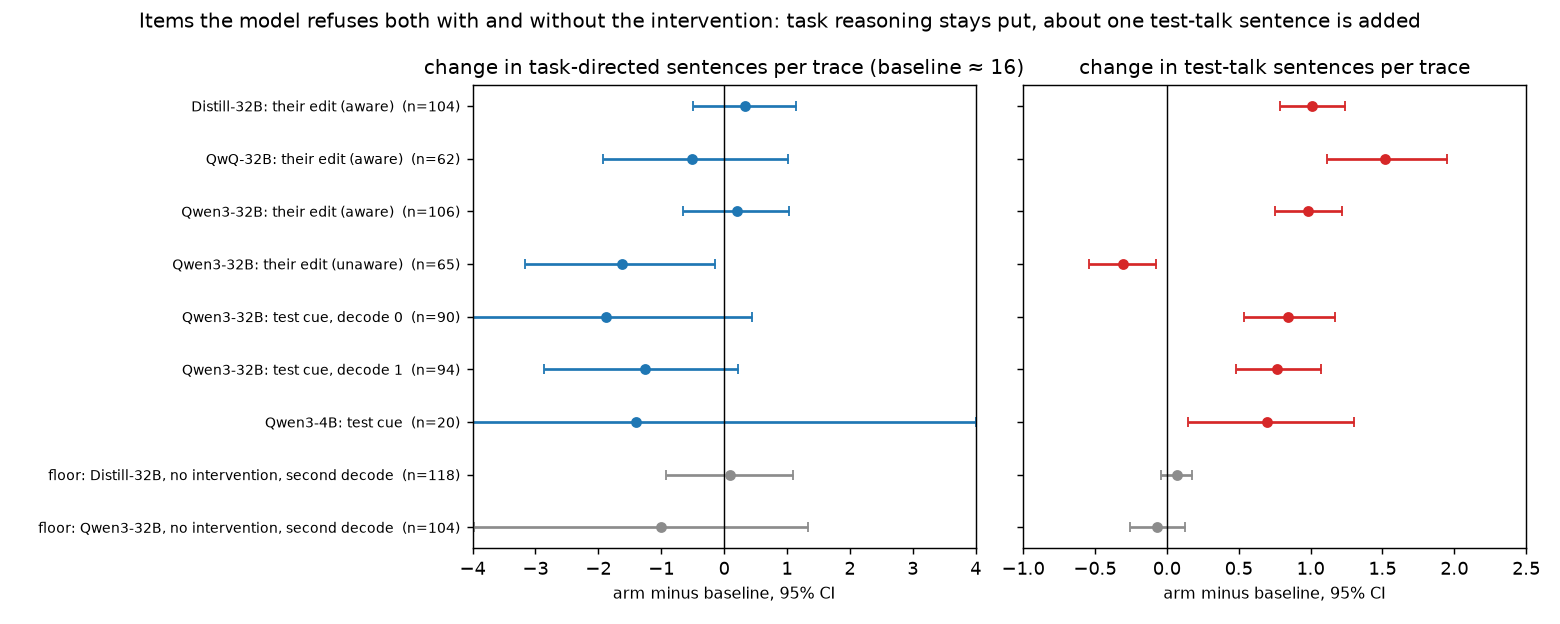
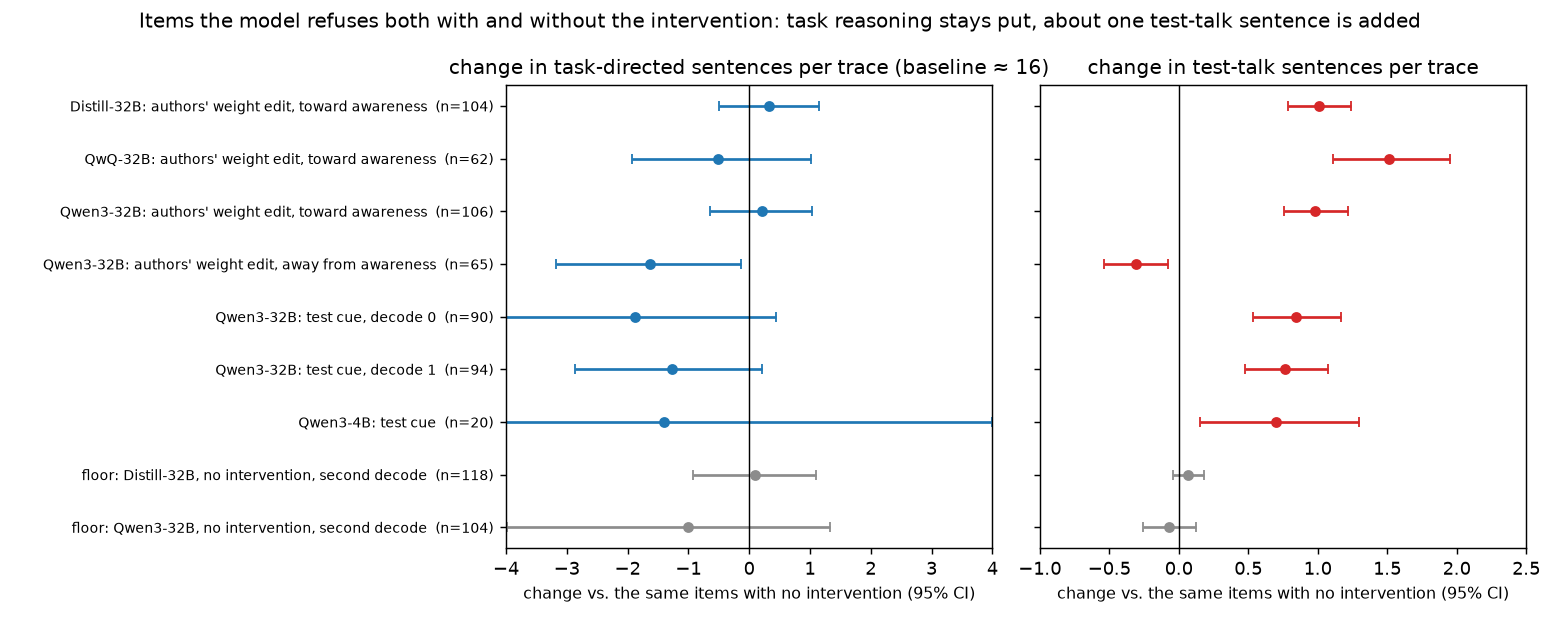
F5: plain-language axis and row labels (no 'arm')

diff --git a/scripts/report_figures.py b/scripts/report_figures.py
@@ -367,8 +367,8 @@ t5 = pd.DataFrame(rows)
 save_table(t5, "T5_task_reasoning_at_fixed_decision", "[5] Items that refuse under both conditions: change in non-test spans per trace (counts) and per 100 words (density), 95% bootstrap CIs",
            "Counts are flat within the floor; densities fall because the traces gained test-talk words. '*' = CI excludes 0; with ~170 intervals in this table about 9 stars are expected by chance, so a single star is not evidence.")
 
-SHOW5 = [("Distill-Qwen-32B, aware +0.07", "Distill-32B: their edit (aware)"), ("QwQ-32B, aware +0.05", "QwQ-32B: their edit (aware)"),
-         ("Qwen3-32B, aware +0.043", "Qwen3-32B: their edit (aware)"), ("Qwen3-32B, unaware −0.32", "Qwen3-32B: their edit (unaware)"),
+SHOW5 = [("Distill-Qwen-32B, aware +0.07", "Distill-32B: authors' weight edit, toward awareness"), ("QwQ-32B, aware +0.05", "QwQ-32B: authors' weight edit, toward awareness"),
+         ("Qwen3-32B, aware +0.043", "Qwen3-32B: authors' weight edit, toward awareness"), ("Qwen3-32B, unaware −0.32", "Qwen3-32B: authors' weight edit, away from awareness"),
          ("Qwen3-32B, test cue (seed 0)", "Qwen3-32B: test cue, decode 0"), ("Qwen3-32B, test cue (seed 1)", "Qwen3-32B: test cue, decode 1"),
          ("Qwen3-4B, test cue", "Qwen3-4B: test cue"),
          ("floor: Distill-Qwen-32B sampled vs greedy α=0", "floor: Distill-32B, no intervention, second decode"), ("floor: Qwen3-32B baseline decodes", "floor: Qwen3-32B, no intervention, second decode")]
@@ -393,7 +393,7 @@ for ax, (m_c, lo_c, hi_c, title) in zip(axes, (("d_task", "t_lo", "t_hi", "task-
             ax.plot(r[m_c], i, "x", color=c)
         else:
             ax.errorbar(r[m_c], i, xerr=[[r[m_c] - r[lo_c]], [r[hi_c] - r[m_c]]], fmt="o", color=c, capsize=3, ms=5)
-    ax.axvline(0, color="k", lw=0.8); ax.set_title(f"change in {title}", fontsize=11); ax.set_xlabel("arm minus baseline, 95% CI", fontsize=9)
+    ax.axvline(0, color="k", lw=0.8); ax.set_title(f"change in {title}", fontsize=11); ax.set_xlabel("change vs. the same items with no intervention (95% CI)", fontsize=9)
 axes[0].set_yticks(ys); axes[0].set_yticklabels([f"{l}  (n={int(n)})" for l, n in zip(f5d.label, f5d.n)], fontsize=8); axes[0].invert_yaxis()
 axes[0].set_xlim(-4, 4); axes[1].set_xlim(-1, 2.5)
 axes[0].set_title(f"change in task-directed sentences per trace (baseline ≈ {f5d.task_base.mean():.0f})", fontsize=11)
